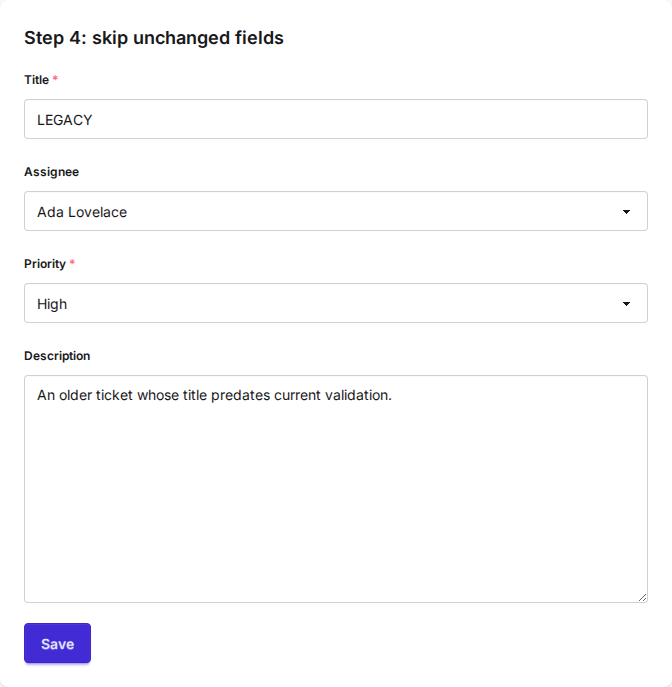
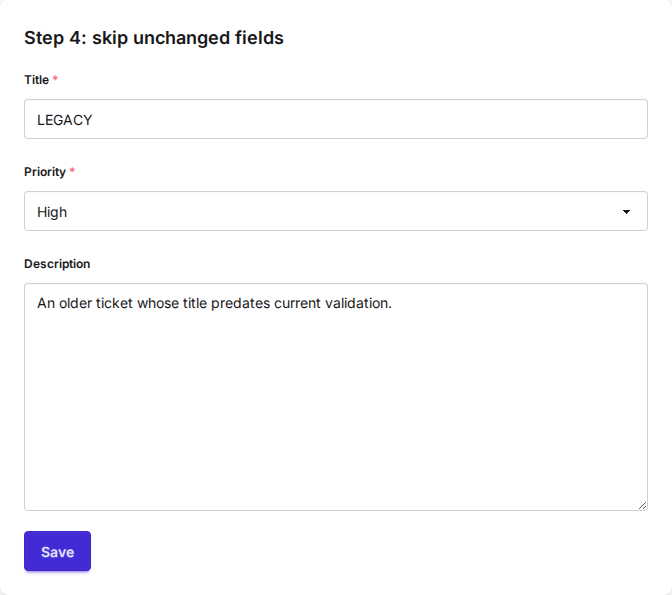
examples/simple: drop assignee FK from the dirty-only edit form
validate_dirty_only carries an unchanged field's raw initial into cleaned_data; for a ForeignKey that is the pk, which construct_instance then rejects (Cannot assign int to FK). Editing the seeded ticket (assignee unchanged) hit this and 500'd. Keep the dirty-only edit form to non-relational fields (title/priority/description); the legacy title is the point of the step. Regenerates step-4 screenshot.

diff --git a/examples/simple/simple/forms.py b/examples/simple/simple/forms.py
@@ -140,8 +140,10 @@ class TicketValidatedForm(TicketWidgetsForm):
 
 
 # Step 4: editing an existing ticket, skipping validation on unchanged fields.
+# (The legacy ``title`` is the point here; the assignee FK is left off this edit
+# form so dirty-only doesn't carry an unchanged relation through construct_instance.)
 class TicketEditForm(FormworkModelForm):
     class Meta:
         model = Ticket
-        fields = ["title", "assignee", "priority", "description"]
+        fields = ["title", "priority", "description"]
         validate_dirty_only = True

diff --git a/docs/cookbook.md b/docs/cookbook.md
@@ -148,7 +148,7 @@ class Ticket(FormworkModel):
 class TicketEditForm(FormworkModelForm):
     class Meta:
         model = Ticket
-        fields = ["title", "assignee", "priority", "description"]
+        fields = ["title", "priority", "description"]
         validate_dirty_only = True
 ```
 
